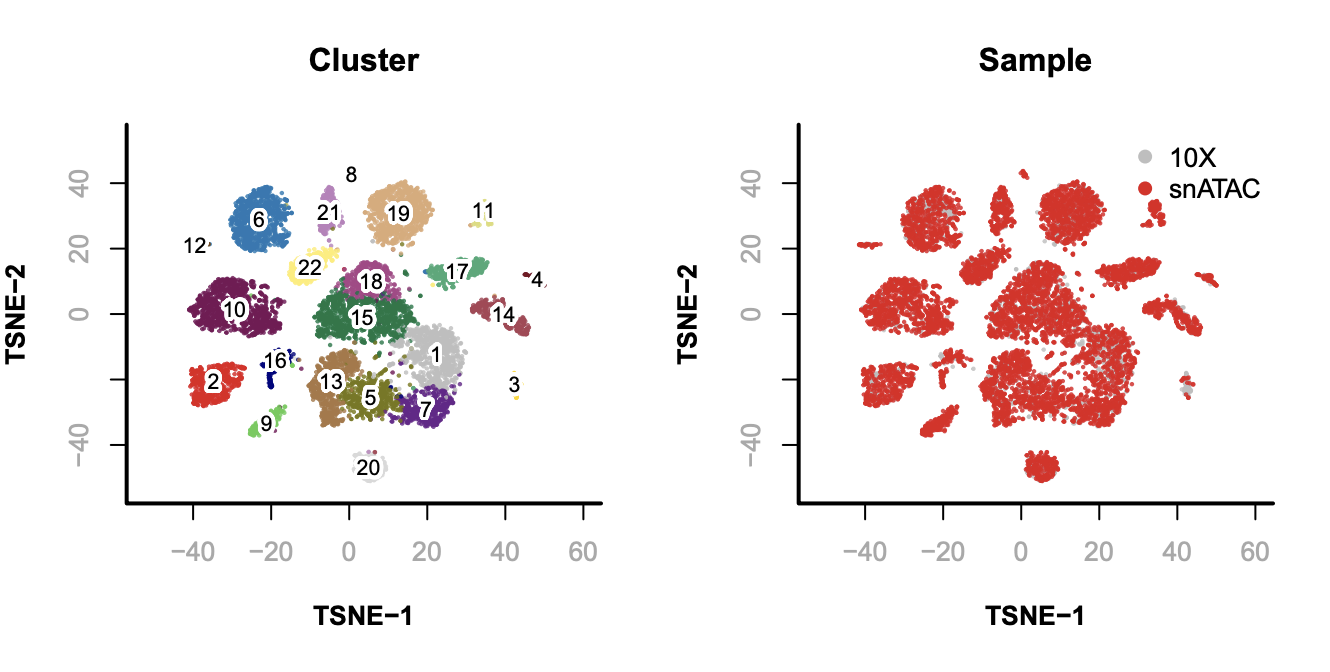
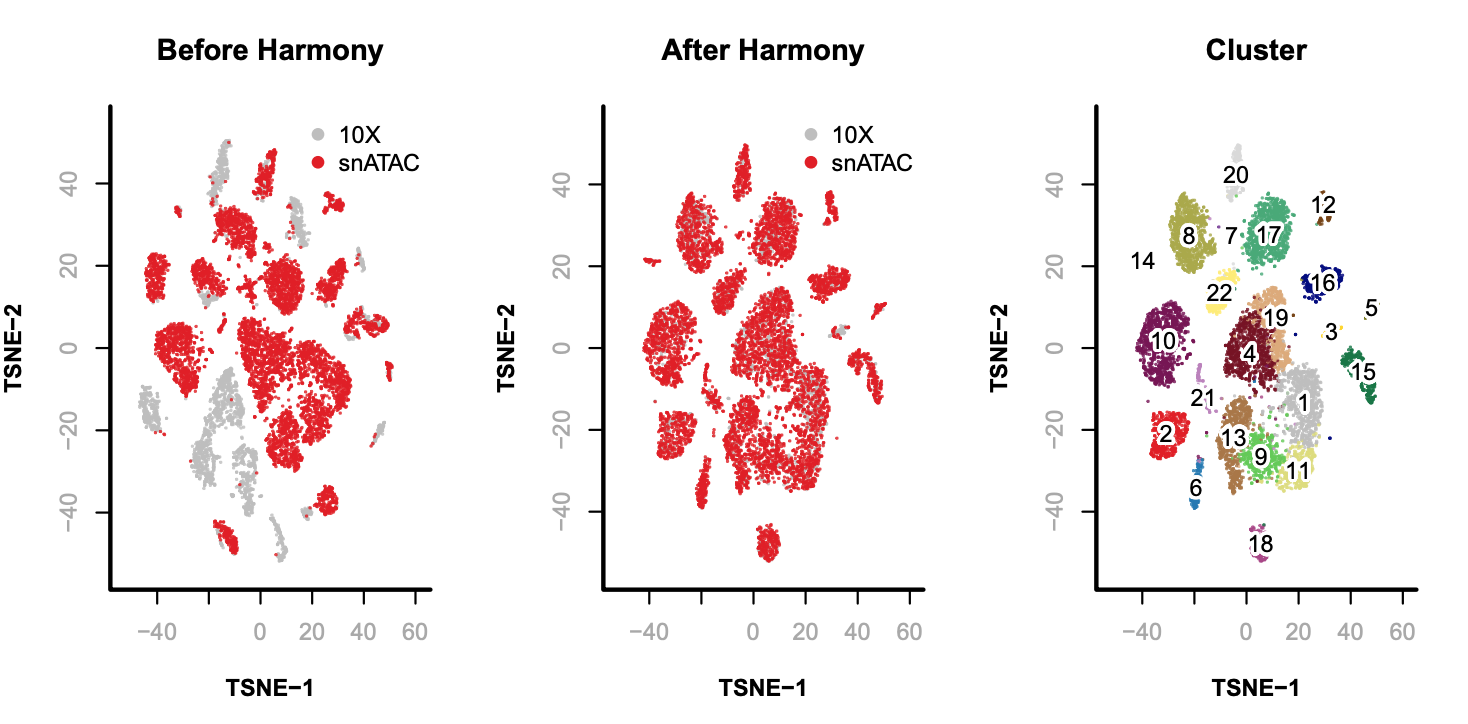
update 10X_snATAC example

diff --git a/examples/10X_snATAC/README.md b/examples/10X_snATAC/README.md
@@ -4,16 +4,31 @@ In this example, we will be integrating two datasets from adult mouse brain gene
 
 <img src="./intro.png" width="900" height="300" />  
 
-Step 0. Download data
+## Table of Contents
+
+- [Step 0. Download data](#download_data)
+- [Step 1. Create snap object](#create_snap)
+- [Step 2. Select barcode](#select_barcode)
+- [Step 3. Add cell-by-bin matrix](#add_bmat)
+- [Step 4. Combine snap objects](#combine_snap)
+- [Step 5. Filter bins](#filter_bin)
+- [Step 6. Dimensionality reduction](#reduce_dim)
+- [Step 7. Determine significant components](#select_dim)
+- [Step 8. Remove batch effect](#run_harmony)
+- [Step 9. Graph-based cluster](#cluster)
+- [Step 10. Visualization](#viz)
+
+
+<a name="download_data"></a>**Step 0. Download data**
 
 ```
 $ wget http://renlab.sdsc.edu/r3fang/share/github/Mouse_Brain_10X_snATAC/CEMBA180305_2B.snap
+$ wget http://renlab.sdsc.edu/r3fang/share/github/Mouse_Brain_10X_snATAC/CEMBA180305_2B.barcode.txt
 $ wget http://renlab.sdsc.edu/r3fang/share/github/Mouse_Brain_10X_snATAC/atac_v1_adult_brain_fresh_5k.snap	
 $ wget http://renlab.sdsc.edu/r3fang/share/github/Mouse_Brain_10X_snATAC/atac_v1_adult_brain_fresh_5k.barcode.txt
-$ wget http://renlab.sdsc.edu/r3fang/share/github/Mouse_Brain_10X_snATAC/CEMBA180305_2B.barcode.txt
 ```
 
-**Step 1. Create snap object**       
+<a name="create_snap"></a>**Step 1. Create snap object**       
 In this example, we will create a list of snap objects that contains two datasets.
 
 ```R
@@ -43,7 +58,7 @@ In this example, we will create a list of snap objects that contains two dataset
 ## number of motifs: 0
 ```
 
-**Step 2. Select barcode**.        
+<a name="create_snap"></a>**Step 2. Select barcode**        
 Next, we read the barcode list which contains the high-quality barcodes. See [here](https://github.com/r3fang/SnapATAC/blob/master/examples/10X_brain_5k/README.md) for barcode selection.
 
 ```R
@@ -73,7 +88,7 @@ Next, we read the barcode list which contains the high-quality barcodes. See [he
 ## number of motifs: 0
 ```
 
-**Step 3. Add cell-by-bin matrix**.        
+<a name="add_bmat"></a>**Step 3. Add cell-by-bin matrix**        
 
 ```R
 > x.sp.list = lapply(seq(x.sp.list), function(i){
@@ -97,10 +112,10 @@ Next, we read the barcode list which contains the high-quality barcodes. See [he
 ## number of peaks: 0
 ## number of motifs: 0
 ```
-These two snap objects have different number of bins because they were generated seperately using different reference genome.  
+These two snap objects have different number of bins because they were generated seperately using slightly different reference genome.  
 
-**Step 4. Combine snap objects**
-Common bins are selected and snap objects are combined.
+<a name="combine_snap"></a>**Step 4. Combine snap objects**         
+To combine these two snap objects, common bins are selected.
 
 ```R
 > bin.shared = Reduce(intersect, lapply(x.sp.list, function(x.sp) x.sp@feature$name));
@@ -118,13 +133,13 @@ Common bins are selected and snap objects are combined.
 ##  4100   9646
 ```
 
-**Step 5. Binarize matrix**      
+<a name="binary_mat"></a>**Step 5. Binarize matrix**      
 
 ```R
 > x.sp = makeBinary(x.sp, mat="bmat");
 ```
 
-**Step 6. Filter bins**            
+<a name="filter_bin"></a>**Step 6. Filter bins**            
 First, we filter out any bins overlapping with the ENCODE blacklist to prevent from potential artifacts.
 
 ```R
@@ -180,8 +195,8 @@ Third, the bin coverage roughly obeys a log normal distribution. We remove the t
 ## number of motifs: 0
 ```
 
-**Step 8. Dimensionality reduction**            
-We compute landmark diffusion maps for dimentionality reduction.
+<a name="reduce_dim"></a>**Step 7. Reduce dimensionality**            
+We compute landmark diffusion maps for dimentionality reduction. We first randomly sample 10,000 cells as landmarks and project the remaining cells (query) onto the diffusion maps embedding.
 
 ```R
 > row.covs = log10(Matrix::rowSums(x.sp@bmat)+1);
@@ -208,10 +223,11 @@ We compute landmark diffusion maps for dimentionality reduction.
 > x.query.sp@metaData$landmark = 0;
 > x.sp = snapRbind(x.landmark.sp, x.query.sp);
 ## combine landmarks and query cells;
-> x.sp = x.sp[order(x.sp@sample),];
+> x.sp = x.sp[order(x.sp@sample),]; # IMPORTANT
+> rm(x.landmark.sp, x.query.sp); # free memory
 ```
 
-**Step 9. Determine significant components**            
+<a name="select_dim"></a>**Step 8. Determine significant components**            
 
 ```R
 > plotDimReductPW(
@@ -230,88 +246,36 @@ We compute landmark diffusion maps for dimentionality reduction.
 
 <img src="./eigs_scatter_plot.png" width="900" height="900" />  
 
-**Step 10. Visualization**            
-
-```R
-> x.sp = runViz(
-    obj=x.sp, 
-    tmp.folder=tempdir(),
-    dims=2,
-    eigs.dims=1:22, 
-    method="Rtsne",
-    seed.use=10
-  );
-> par(mfrow = c(2, 2));
-> plotViz(
-    obj=x.sp,
-    method="tsne", 
-    main="Sample",
-    point.color=x.sp@sample, 
-    point.size= 0.2, 
-    point.shape=19, 
-    point.alpha=0.8, 
-    text.add=FALSE,
-    text.size=1.5,
-    text.color="black",
-    text.halo.add=TRUE,
-    text.halo.color="white",
-    text.halo.width=0.2,
-    down.sample=10000,
-    legend.add=TRUE
-  );
-> plotViz(
-    obj=x.sp,
-    method="tsne", 
-    main="Landmark",
-    point.color=x.sp@metaData[,"landmark"], 
-    point.size=0.2, 
-    point.shape=19, 
-    point.alpha=0.8, 
-    text.add=FALSE,
-    text.size=1.5,
-    text.color="black",
-    text.halo.add=TRUE,
-    text.halo.color="white",
-    text.halo.width=0.2,
-    down.sample=10000,
-    legend.add=TRUE
-  );
-```
-
-<img src="./viz.png" width="900" height="450" />  
-
-
-**Step 11. Remove batch effect**
+<a name="run_harmony"></a>**Step 9. Remove batch effect**
 
 ```
 > library(harmony);
-> x.sp = runHarmony(
+> x.after.sp = runHarmony(
     obj=x.sp, 
-    pca.dims=1:22, 
-    weight.by.sd=FALSE,
-    meta_data=x.sp@sample
+    eigs.dims=1:22, 
+    meta_data=x.sp@sample # sample index
   );
 ```
 
-**Step 12. Graph-based cluster**
+<a name="cluster"></a>**Step 10. Graph-based cluster**
 
 ```R
-> x.sp = runKNN(
-    obj=x.sp,
+> x.after.sp = runKNN(
+    obj= x.after.sp,
     eigs.dim=1:22,
     k=15
   );
-> x.sp = runCluster(
-     obj=x.sp,
+> x.after.sp = runCluster(
+     obj=x.after.sp,
      tmp.folder=tempdir(),
      louvain.lib="R-igraph",
      path.to.snaptools=NULL,
      seed.use=10
   );
-> x.sp@metaData$cluster = x.sp@cluster;
+> x.after.sp@metaData$cluster = x.after.sp@cluster;
 ```
 
-**Step 13. Visualization**
+<a name="viz"></a>**Step 11. Visualization**
 
 ```R
 > x.sp = runViz(
@@ -322,17 +286,43 @@ We compute landmark diffusion maps for dimentionality reduction.
     method="Rtsne",
     seed.use=10
   );
-> par(mfrow = c(2, 2));
+> x.after.sp = runViz(
+    obj=x.after.sp, 
+    tmp.folder=tempdir(),
+    dims=2,
+    eigs.dims=1:22, 
+    method="Rtsne",
+    seed.use=10
+  );
+> par(mfrow = c(2, 3));
 > plotViz(
     obj=x.sp,
     method="tsne", 
+    main="Before Harmony",
+    point.color=x.sp@sample, 
+    point.size=0.1, 
+    text.add= FALSE,
+    down.sample=10000,
+    legend.add=TRUE
+  );
+> plotViz(
+    obj=x.after.sp,
+    method="tsne", 
+    main="After Harmony",
+    point.color=x.sp@sample, 
+    point.size=0.1, 
+    text.add=FALSE,
+    down.sample=10000,
+    legend.add=TRUE
+  );
+> plotViz(
+    obj=x.after.sp,
+    method="tsne", 
     main="Cluster",
-    point.color=x.sp@cluster, 
-    point.size=0.2, 
-    point.shape=19, 
-    point.alpha=0.8, 
+    point.color=x.after.sp@cluster, 
+    point.size=0.1, 
     text.add=TRUE,
-    text.size=0.8,
+    text.size=1,
     text.color="black",
     text.halo.add=TRUE,
     text.halo.color="white",
@@ -340,24 +330,8 @@ We compute landmark diffusion maps for dimentionality reduction.
     down.sample=10000,
     legend.add=FALSE
   );
-> plotViz(
-    obj=x.sp,
-    method="tsne", 
-    main="Sample",
-    point.color=x.sp@sample, 
-    point.size= 0.2, 
-    point.shape=19, 
-    point.alpha=0.8, 
-    text.add=FALSE,
-    text.size=1.5,
-    text.color="black",
-    text.halo.add=TRUE,
-    text.halo.color="white",
-    text.halo.width=0.2,
-    down.sample=10000,
-    legend.add=TRUE
-  );
 ```
 
-<img src="./viz2.png" width="900" height="450" />  
+<img src="./viz2.png" width="900" height="300" />  
+
 
